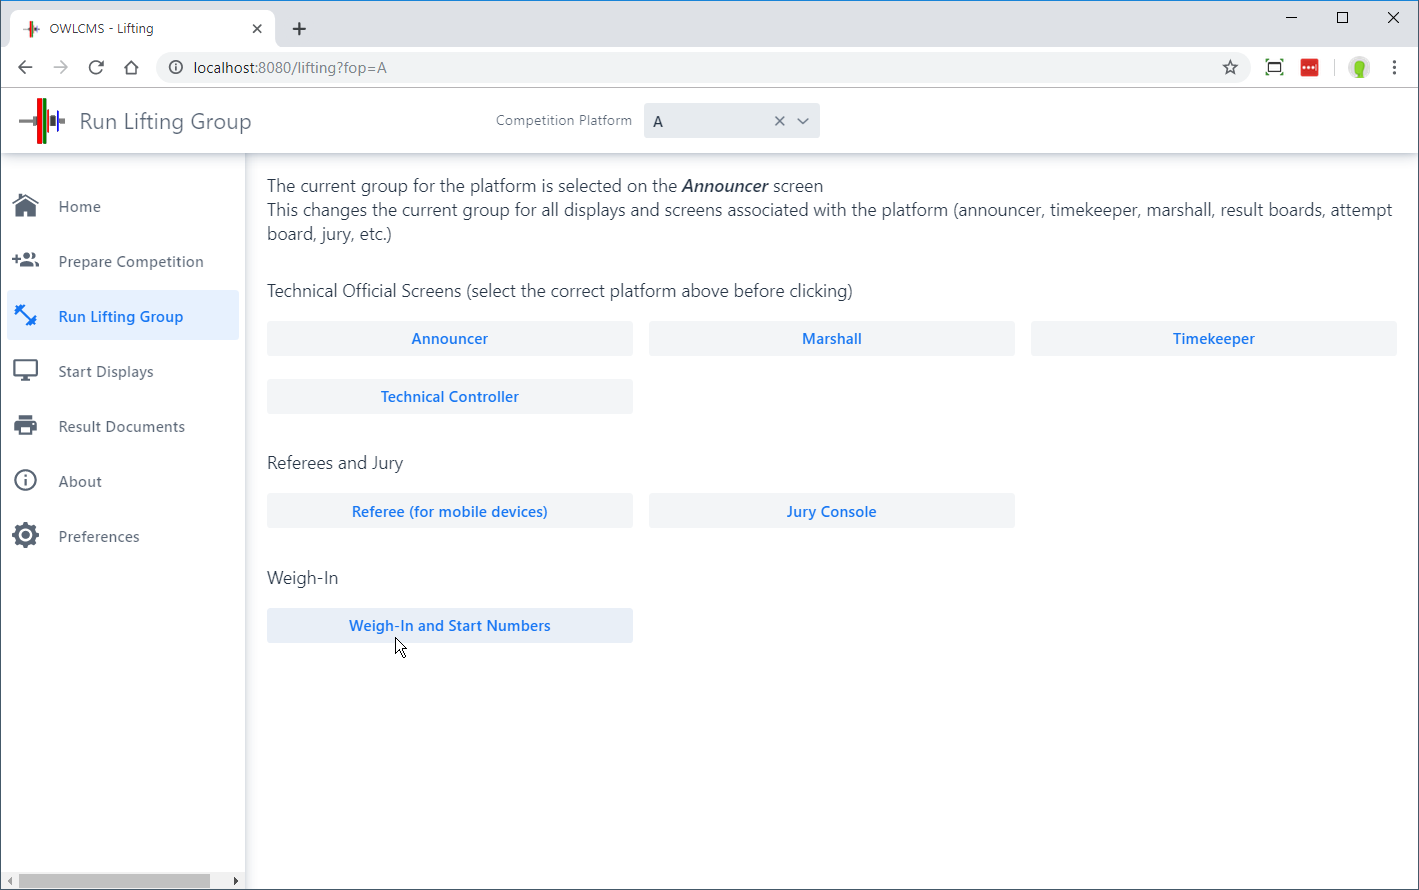
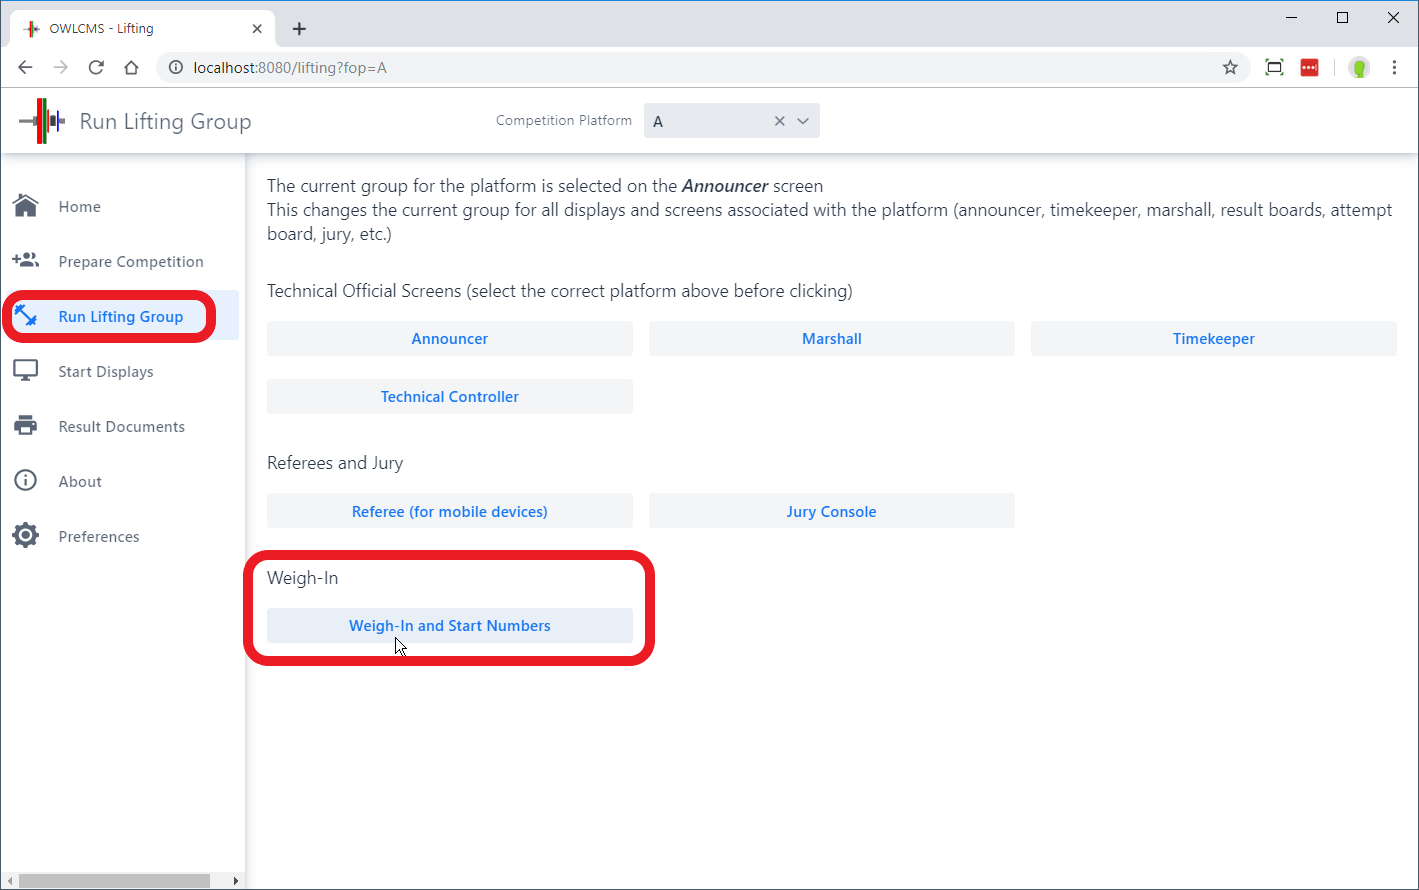
First pass documentation

Changed region(s): [[0.155, 0.6067, 0.4651, 0.7584], [0.0, 0.3034, 0.155, 0.3944]]

diff --git a/docs/WeighIn.md b/docs/WeighIn.md
@@ -1,0 +1,50 @@
+Weigh-ins take place for each group, so the buttons for the weigh-in officials is on the Lifting Group page.
+
+![010_Weighin](img/WeighIn/010_Weighin.png)
+
+## Selecting a group
+
+The first step is to select the group being weighed-in.
+
+![012_selectGroup](img/WeighIn/012_selectGroup.png)
+
+## Athlete Cards
+
+Athlete Cards are the cards that will be used by the Marshall to record changes.  In many federations, they are printed out in advance, because the athletes will be asked to write down their starting weights and counter-sign their body weight.  If athlete cards are printed in advance of the weigh-in, it will also be necessary to write down the start numbers on the cards.  This is usually done by the competition secretary, comparing the [Starting Weight List](#starting-weight-list) as a reference and cross-check.
+
+![040_AthleteCards](img/WeighIn/040_AthleteCards.png)
+
+Athlete cards are produced as an Excel document which can be printed.
+
+![LifterCards](img/Documents/LifterCards.png)
+
+## Entering information
+
+The athlete's body weight, category, age division, starting weights should now be entered.  The athlete is selected by clicking ONCE in the list.
+
+![020_selectAthlete](img/WeighIn/020_selectAthlete.png)
+
+Various validations are made by OWLCMS and errors are signaled. For example, the category must fit with the gender and the body weight.
+
+![022_wrongCategory](img/WeighIn/022_wrongCategory.png)
+
+If enabled on the Competition Information page, the 20kg rule will be enforced. In this example, a typo meant that 16 was entered instead of 106.
+
+![024_wrongStartingWeight](img/WeighIn/024_wrongStartingWeight.png)
+
+## Start Numbers
+
+Start numbers are used to ensure that lighter weight categories lift before heavier weight categories even if the same weight is requested.  Start numbers cannot, therefore, be generated before a group has been weighed-in.
+
+![030_StartNumbers](img/WeighIn/030_StartNumbers.png)
+
+## Starting Weight Sheet
+
+The starting weight sheet shows the start number and the requested weights.  It is often used to cross-check that the information printed is the same as on the athlete cards, and conversely, to write down the start numbers on the athlete cards.
+
+It is often also used as a protocol sheet -- an official will fill in the good and bad lifts as a backup copy.
+
+![032_StartingWeights](img/WeighIn/032_StartingWeights.png)
+
+![034_StartingWeights](img/WeighIn/034_StartingWeights.png)
+

diff --git a/docs/Documents.md b/docs/Documents.md
@@ -1,0 +1,23 @@
+From the `Result Documents` page, it is possible to get a protocol sheet for each group, and a full results package.
+
+## Group Results
+
+The Group Results button opens a page where it is possible
+
+- To correct a mistake on a result in a group that has finished lifting
+
+- To select a group and produce a result sheet
+
+- If no group is selected, all the lifters are included.  This is typically the format expected to send results to a federation.
+
+  In the current version, the template used is determined by the language.  The ability to pick from a list of templates will be reintroduced in an upcoming release.
+
+![SessionResults](img/Documents/SessionResults.png)
+
+## Competition Package
+
+The competition package contains the 6-lift results for men and women, the Robi rankings, and the team results.
+
+In the current version, only the standard package is available. The ability to pick alternate competition packages with alternate team points schemes will be reintroduced in an upcoming release.
+
+![CompetitionBook](img/Documents/CompetitionBook.png)
